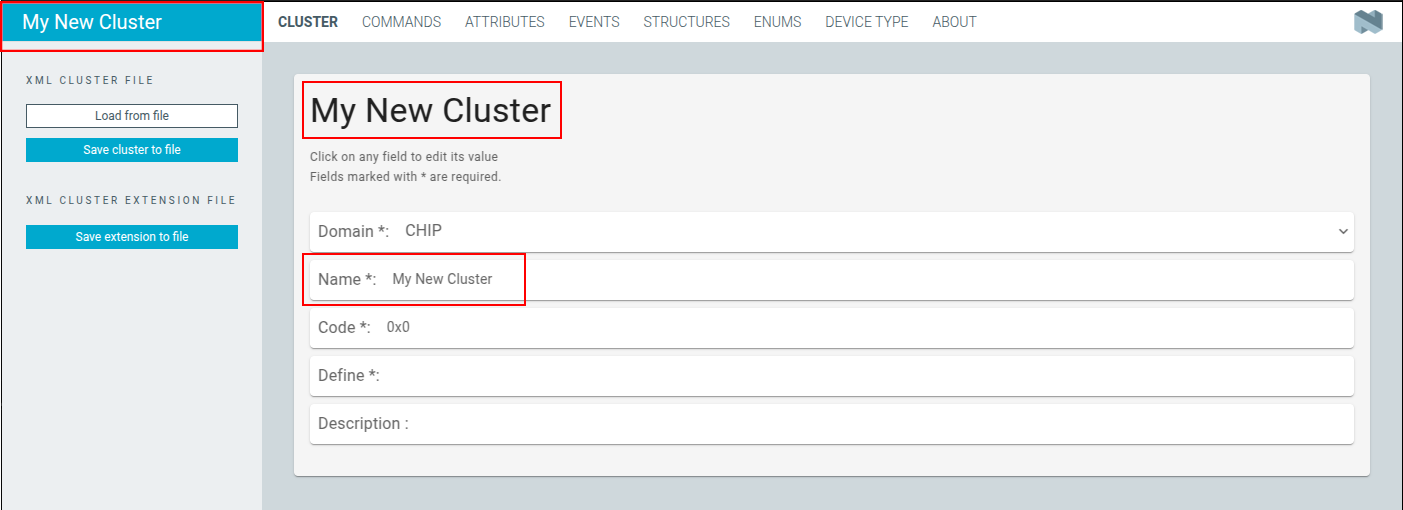
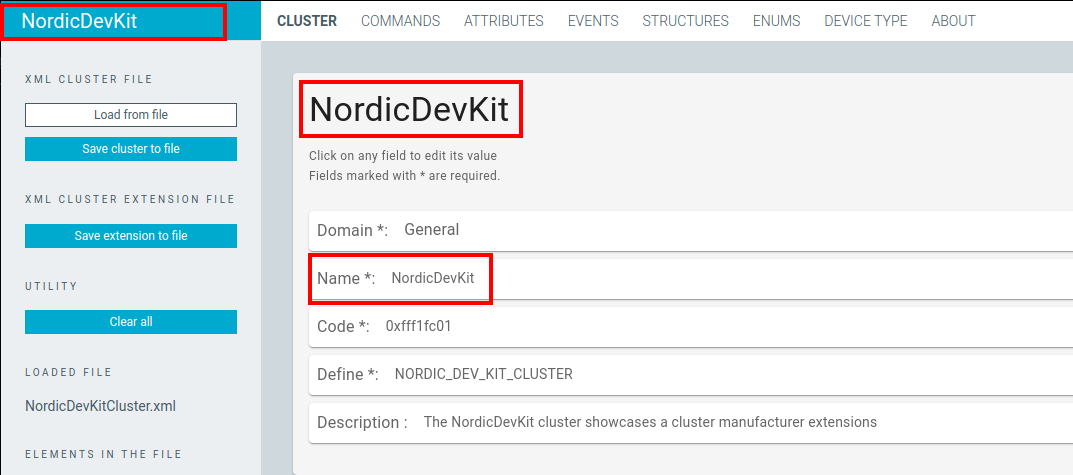
Release v1.0.0

diff --git a/doc/docs/overview.md b/doc/docs/overview.md
@@ -17,6 +17,15 @@ On the left side of the tool, the app includes several UI elements for managing 
 
 ![Side panel](./screenshots/matter_cluster_tool_side_panel.png "Side panel")
 
+### Cluster name field
+
+This is the blue area at the top of the side panel sections. When you load a Matter cluster XML file, the name of the cluster is displayed here (for example, `NordicDevKit` in the following image.)
+
+![Filled cluster name field above the side panels](./screenshots/matter_cluster_tool_name.png "Filled cluster name field above the side panels")
+
+!!! info "Tip"
+    You can change the name of the cluster by clicking on the name bar and typing a new name. The new name must be unique across all available clusters in the Matter Data Model.
+
 ### XML Cluster File
 
 The buttons in this section let you load Matter cluster XML files and save them.
@@ -40,20 +49,45 @@ If there is no difference, the tool shows a notification indicating that there i
 
 ![Save extension no difference](./screenshots/matter_cluster_tool_save_extension_no_difference.png "Save extension no difference")
 
-### Cluster name field
+### Utility
 
-This is the blue area at the top of the side panel sections. When you load a Matter cluster XML file, the name of the cluster is displayed here (for example, `NordicDevKit` in the following image.)
+This tab includes utilities mechanism that you can use to manipulate edited data.
 
-![Filled cluster name field above the side panels](./screenshots/matter_cluster_tool_name.png "Filled cluster name field above the side panels")
+Currently the following utilities are supported:
 
-!!! info "Tip"
-    You can change the name of the cluster by clicking on the name bar and typing a new name. The new name must be unique across all available clusters in the Matter Data Model.
+* **Clear All**
 
-If the file contains more than one cluster, the tool shows a notification with the list of available clusters, as in the following image.
+  ![Utiities](./screenshots/matter_cluster_tool_utilities.png "Utiities")
 
-![Load cluster file](./screenshots/matter_cluster_tool_load_multiple_clusters.png "Load cluster file")
+  Use this button to wipe all data stored in the current window and reset the application to its initial state. This operation cannot be undone, so the following message appears:
 
-Selecting a cluster from the list loads the cluster definition or cluster extension.
+  ![Warning before clearing all data](./screenshots/matter_cluster_tool_warning_before_clearing_all_data.png "Warning before clearing all data")
+
+### Loaded file
+
+This tab shows a name of the currently loaded file.
+
+### Elements in the file
+
+If an XML file contains multiple device types, clusters, or cluster extensions, all correctly recognized elements will appear in this section.
+
+Depending on the contents of the loaded file, this section can display up to three separate lists:
+
+![Elemnents in the file](./screenshots/matter_cluster_tool_elements_in_the_file.png "Elements in the file")
+
+| List name        | Description                                                        |
+|------------------|--------------------------------------------------------------------|
+| **Clusters**     | This list displays all clusters found in the file.                 |
+| **Device Types** | This list displays all device types found in the file.             |
+| **Extensions**   | This list displays all cluster extensions found in the file.       |
+
+For example, if the file contains multiple device types, you can see a similar list to the following one:
+
+![Multiple device types](./screenshots/matter_cluster_tool_multiple_device_types.png "Multiple device types")
+
+Click an item in one of the lists to open and edit it in the main window.
+Please note: You can only edit one cluster or cluster extension in the main window at a time.
+If you want to make changes to a different item, simply select it from the list, your changes will be preserved and you can switch between items freely.
 
 ## Main window
 
@@ -523,3 +557,22 @@ The tool validates that all required fields are filled before saving. If require
 If there are no differences between the current cluster and the loaded cluster, the tool shows a message indicating no data to create an extension:
 
 ![Save extension no difference](./screenshots/matter_cluster_tool_save_extension_no_difference.png "Save extension no difference")
+
+If the loaded XML file does have elements that have not defined all mandatory fields, the tool show a message indicating all of them to inform user that the missing values were replaced with the default values:
+
+![Missing configuration](./screenshots/matter_cluster_tool_missing_configuration.png "Missing configuration")
+
+If the loaded XML file contains multiple elements, while saving cluster to file, the tool shows a message to choose a ways of saving:
+
+![Save options](./screenshots/matter_cluster_tool_save_options.png "Save options")
+
+The first option **Save only the edited element** saves only the current device type and/or cluster.
+The second option **Save all data from original file with your edits** saves all loaded data with all modifications that you provided.
+
+If you choose one of the array types, then you must set the **Length** field bigger than 0. If it is set to 0, the following message appears:
+
+![Wrong array](./screenshots/matter_cluster_tool_wrong_array.png "Wrong array")
+
+If you choose one of the numerical types, then the **Max** value must be bigger thatn **Min** value. If the condition is not met, the following message appears:
+
+![Wrong max size](./screenshots/matter_cluster_tool_wrong_max_size.png "Wrong max size")

diff --git a/Changelog.md b/Changelog.md
@@ -1,37 +1,50 @@
+## 1.0.0 2025-10-30
+
+### Added
+
+-   Validation for all required fields in clusters and device types when loading
+    an XML file.
+-   Ability to display multiple clusters, device types, and extensions in the
+    side panel for easy switching when the loaded XML file contains multiple
+    items.
+-   Validation before saving to prevent incomplete or invalid data from being
+    stored.
+-   Dialog for choosing a save strategy: either saving only the edited item or
+    saving all items along with the current edits.
+-   A new **Clear all** button in the **Utility** section to reset the editor to
+    its initial state.
+-   Automated actions to update all related fields automatically when a field
+    value changes.
+-   Telemetry to gather statistics about the application usage.
+
+### Changed
+
+-   Parent dialog now shows a greyed-out background with reduced opacity when
+    child dialogs are open.
+
+### Fixed
+
+-   Issue where saving to an XML file would result in missing fields.
+-   Issue where `false` and `0` values would not be correctly saved in the XML
+    file.
+-   Issue with the saving mechanism of the cluster extension to ensure that
+    `deviceType` is excluded if it does not have all required non-default
+    values.
+-   Issue with the saving mechanism of the cluster and the cluster extension
+    that would add empty description fields to the cluster itself and to
+    attributes, commands, and events.
+-   Issue with `DeviceType` cluster assignments that would not be saved to the
+    XML file.
+-   Issue where box fields for editing would not be displayed for existing
+    items.
+-   Issue with incorrect storage of the `name` field for each item in the XML
+    file.
+
+### Removed
+
+-   The "array" type from the type list, which was replaced by the new button
+    for marking a field as an array.
+
 ## 0.1.0 - 2025-06-24
 
 -   Initial public release.
-
-## 1.0.0
-
--   Fixed an issue where saving to an XML file would result in missing fields.
--   Resolved a problem where "false" and 0 values were not correctly saved in
-    the XML file.
--   Fixed cluster extension saving to exclude deviceType when it doesn't have
-    all required fields filled with non-default values.
--   Improved cluster and cluster extension saving to exclude empty description
-    fields from the cluster itself and from attributes, commands, and events.
--   Fixed deviceType cluster assignments not being saved to XML file.
--   Removed the "array" type from the type list and added a dedicated button to
-    mark a field as an array.
--   Fixed a bug where the edit box fields were not displayed for existing items.
--   Improved attribute name saving: now only the "name" field is stored for each
-    attribute, as required by the ZAP tool specification.
--   Added validation for all required fields in clusters and device types.
--   Added support for loading and editing XML files with multiple device types.
--   Added smart save functionality that preserves unedited clusters and device
-    types when saving multi-item files.
--   Added validation before save to prevent incomplete or invalid data from
-    being saved.
--   Added dialog to choose save strategy: save only edited item or save all
-    items with edits.
--   Improved UI for selecting items from
-    multi-cluster/multi-device-type/multi-extension files.
--   Added field validation abstraction in edit boxes for reusable validation
-    logic.
--   Added "Clear All" button in Utility section to reset the editor to its
-    initial state.
--   Added automate actions to automatically update related fields when a field
-    value changes.
--   Improved nested dialog UX: parent dialog now shows greyed out background
-    with reduced opacity when child dialogs are open.

diff --git a/doc/docs/index.md b/doc/docs/index.md
@@ -18,6 +18,7 @@ The app supports the following features:
 - Creating extensions to the existing clusters defined in the Matter data model.
 - Adding new enumerations and structures.
 - Creating a new device type that is not listed in the Matter Device Type Library Specification.
+- Opening and editing XML files that contains multiple clusters, device types, or cluster extensions.
 
 Based on your edits, the tool generates a new XML file with the cluster definition or an extension to the existing cluster.
 You can use the XML file as an argument in the Matter west commands to add the XML file to the Matter ZCL database.
